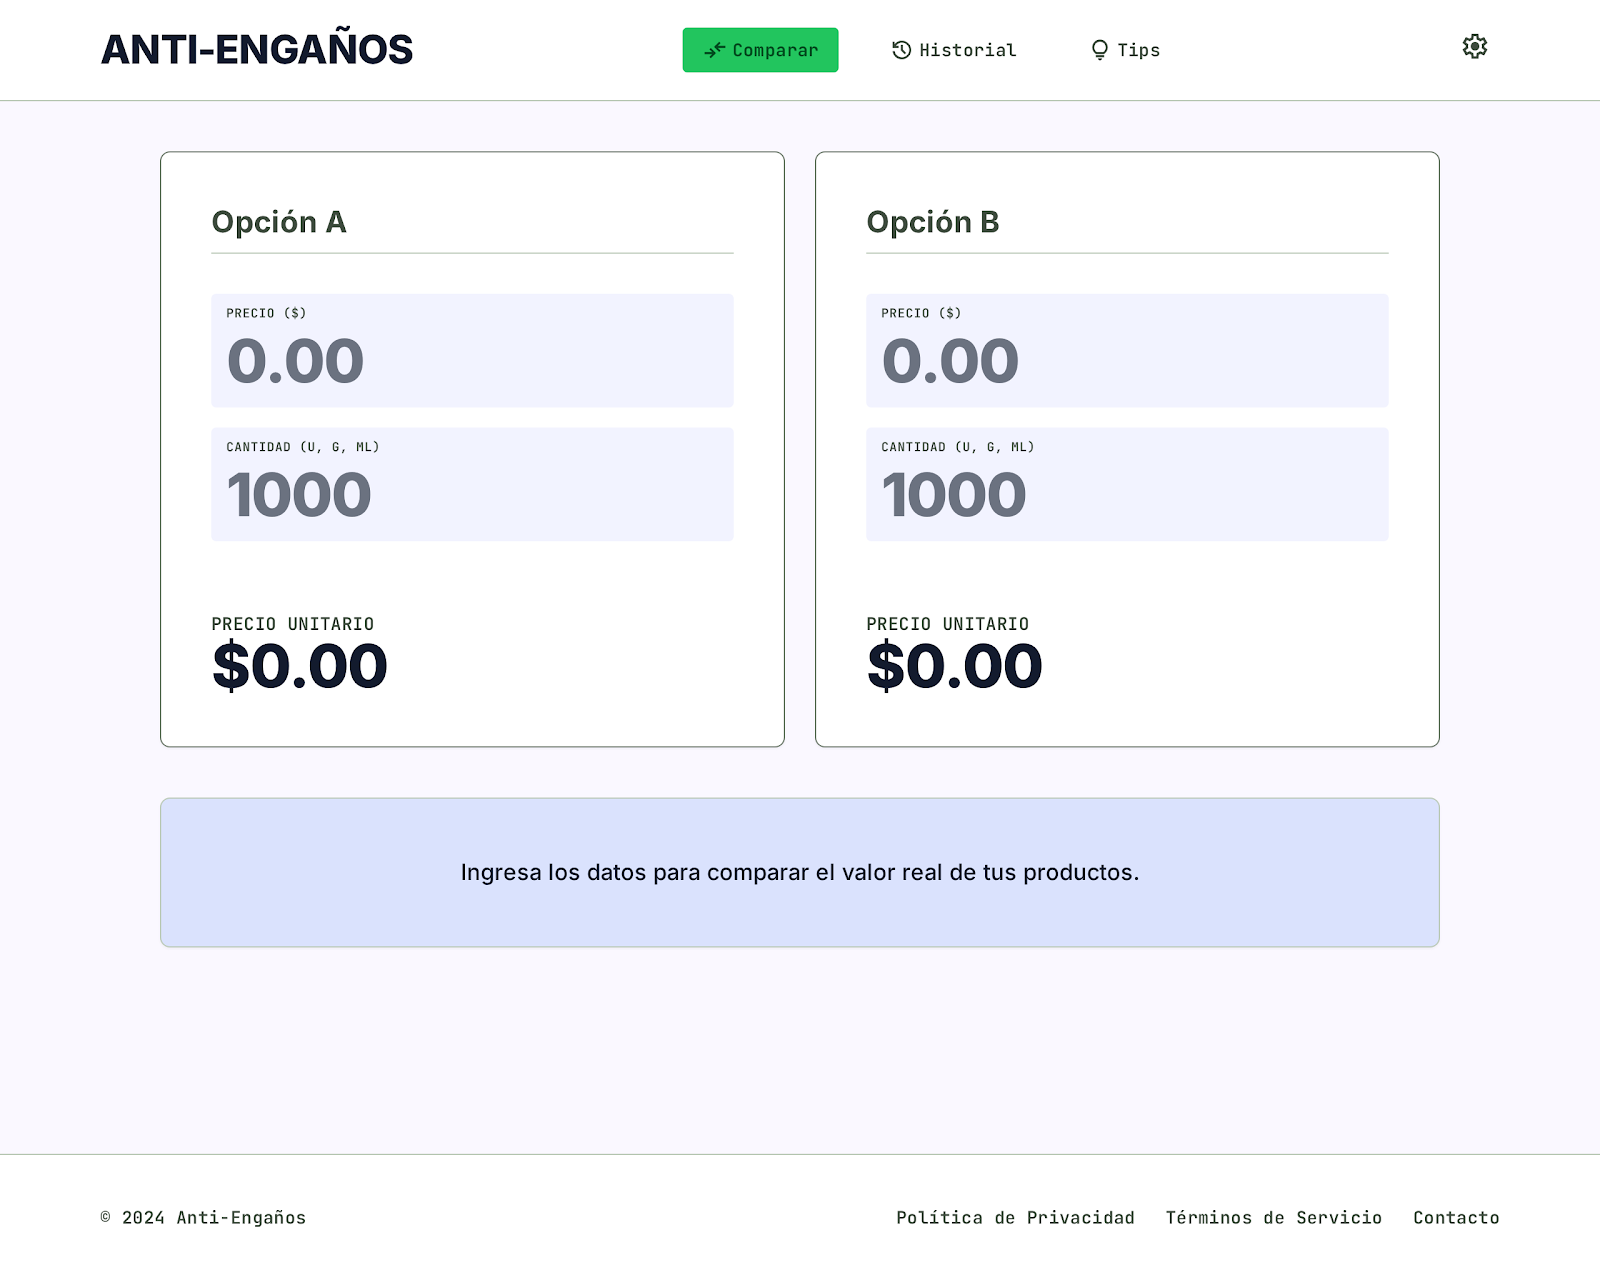
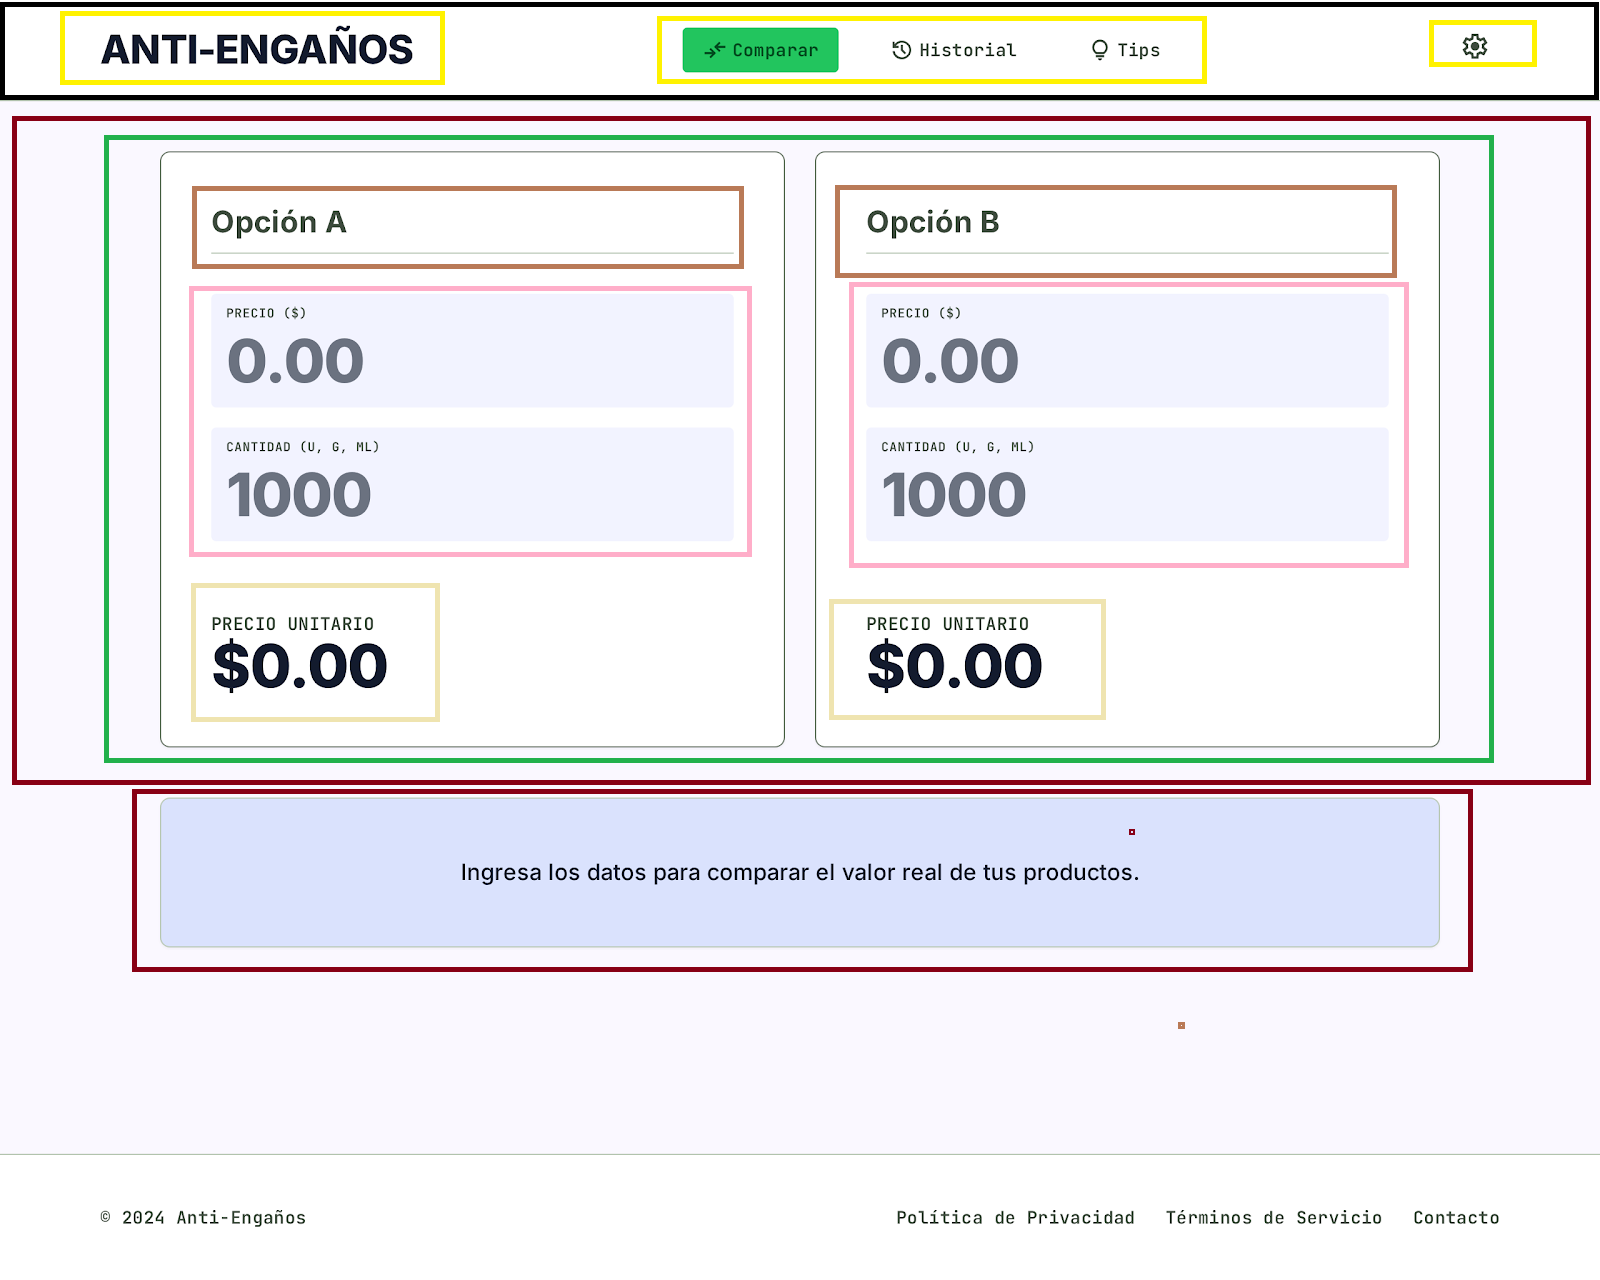
Estructura HTML definitiva con inputs numericos, selectores

diff --git a/page/index.html b/page/index.html
@@ -24,30 +24,53 @@
     </header>
     <main>
         <!-- SECCIÓN PRINCIPAL DE LA PÁGINA -->
-        <section class="comparador">
+        <section class="comparadores">
 
             <article class="opcionA">
                 <h2>Opcion por Unidad</h2>
-                <div>
+                <div class="tarjeta-a">
                     <label for="precio-a">Precio ($)</label>
                     <input type="number" id="precio-a">
                     <label for="cantidad-a">Cantidad (U, G, ML)</label>
                     <input type="number" id="cantidad-a">
+                    <select id="selector-a">
+                        <option value="unidades">Unidades (U)</option>
+                        <option value="gramos">Gramos (G)</option>
+                        <option value="mililitros">Mililitros (ML)</option>
+                    </select>
+                    <div class="precio-unitario-a">
+                        <h3>
+                            Precio Unitario: $0.00
+                        </h3>
+                    </div>
                 </div>
     
             </article>
             <article class="opcionB">
                 <h2>Opcion por Packs</h2>
-                <div>
+                <div class="tarjeta-b">
                     <label for="precio-b">Precio ($)</label>
                     <input type="number" id="precio-b">
                     <label for="cantidad-b">Cantidad (U, G, ML)</label>
                     <input type="number" id="cantidad-b">
+                    <select id="selector-b">
+                        <option value="unidades">Unidades (U)</option>
+                        <option value="gramos">Gramos (G)</option>
+                        <option value="mililitros">Mililitros (ML)</option>
+                    </select>
+                    <div class="precio-unitario-b">
+                        <h3>
+                            Precio Unitario: $0.00
+                        </h3>
+                    </div>
                 </div>
             </article>
         </section>
         <!-- SECCIÓN DECORATIVA -->
         <div class="text-decorativo">
+            <p>
+                Compara precios de productos por unidad o por packs y descubre cuál es la mejor opción para tu bolsillo.
+            </p>
             
         </div>
     </main>
